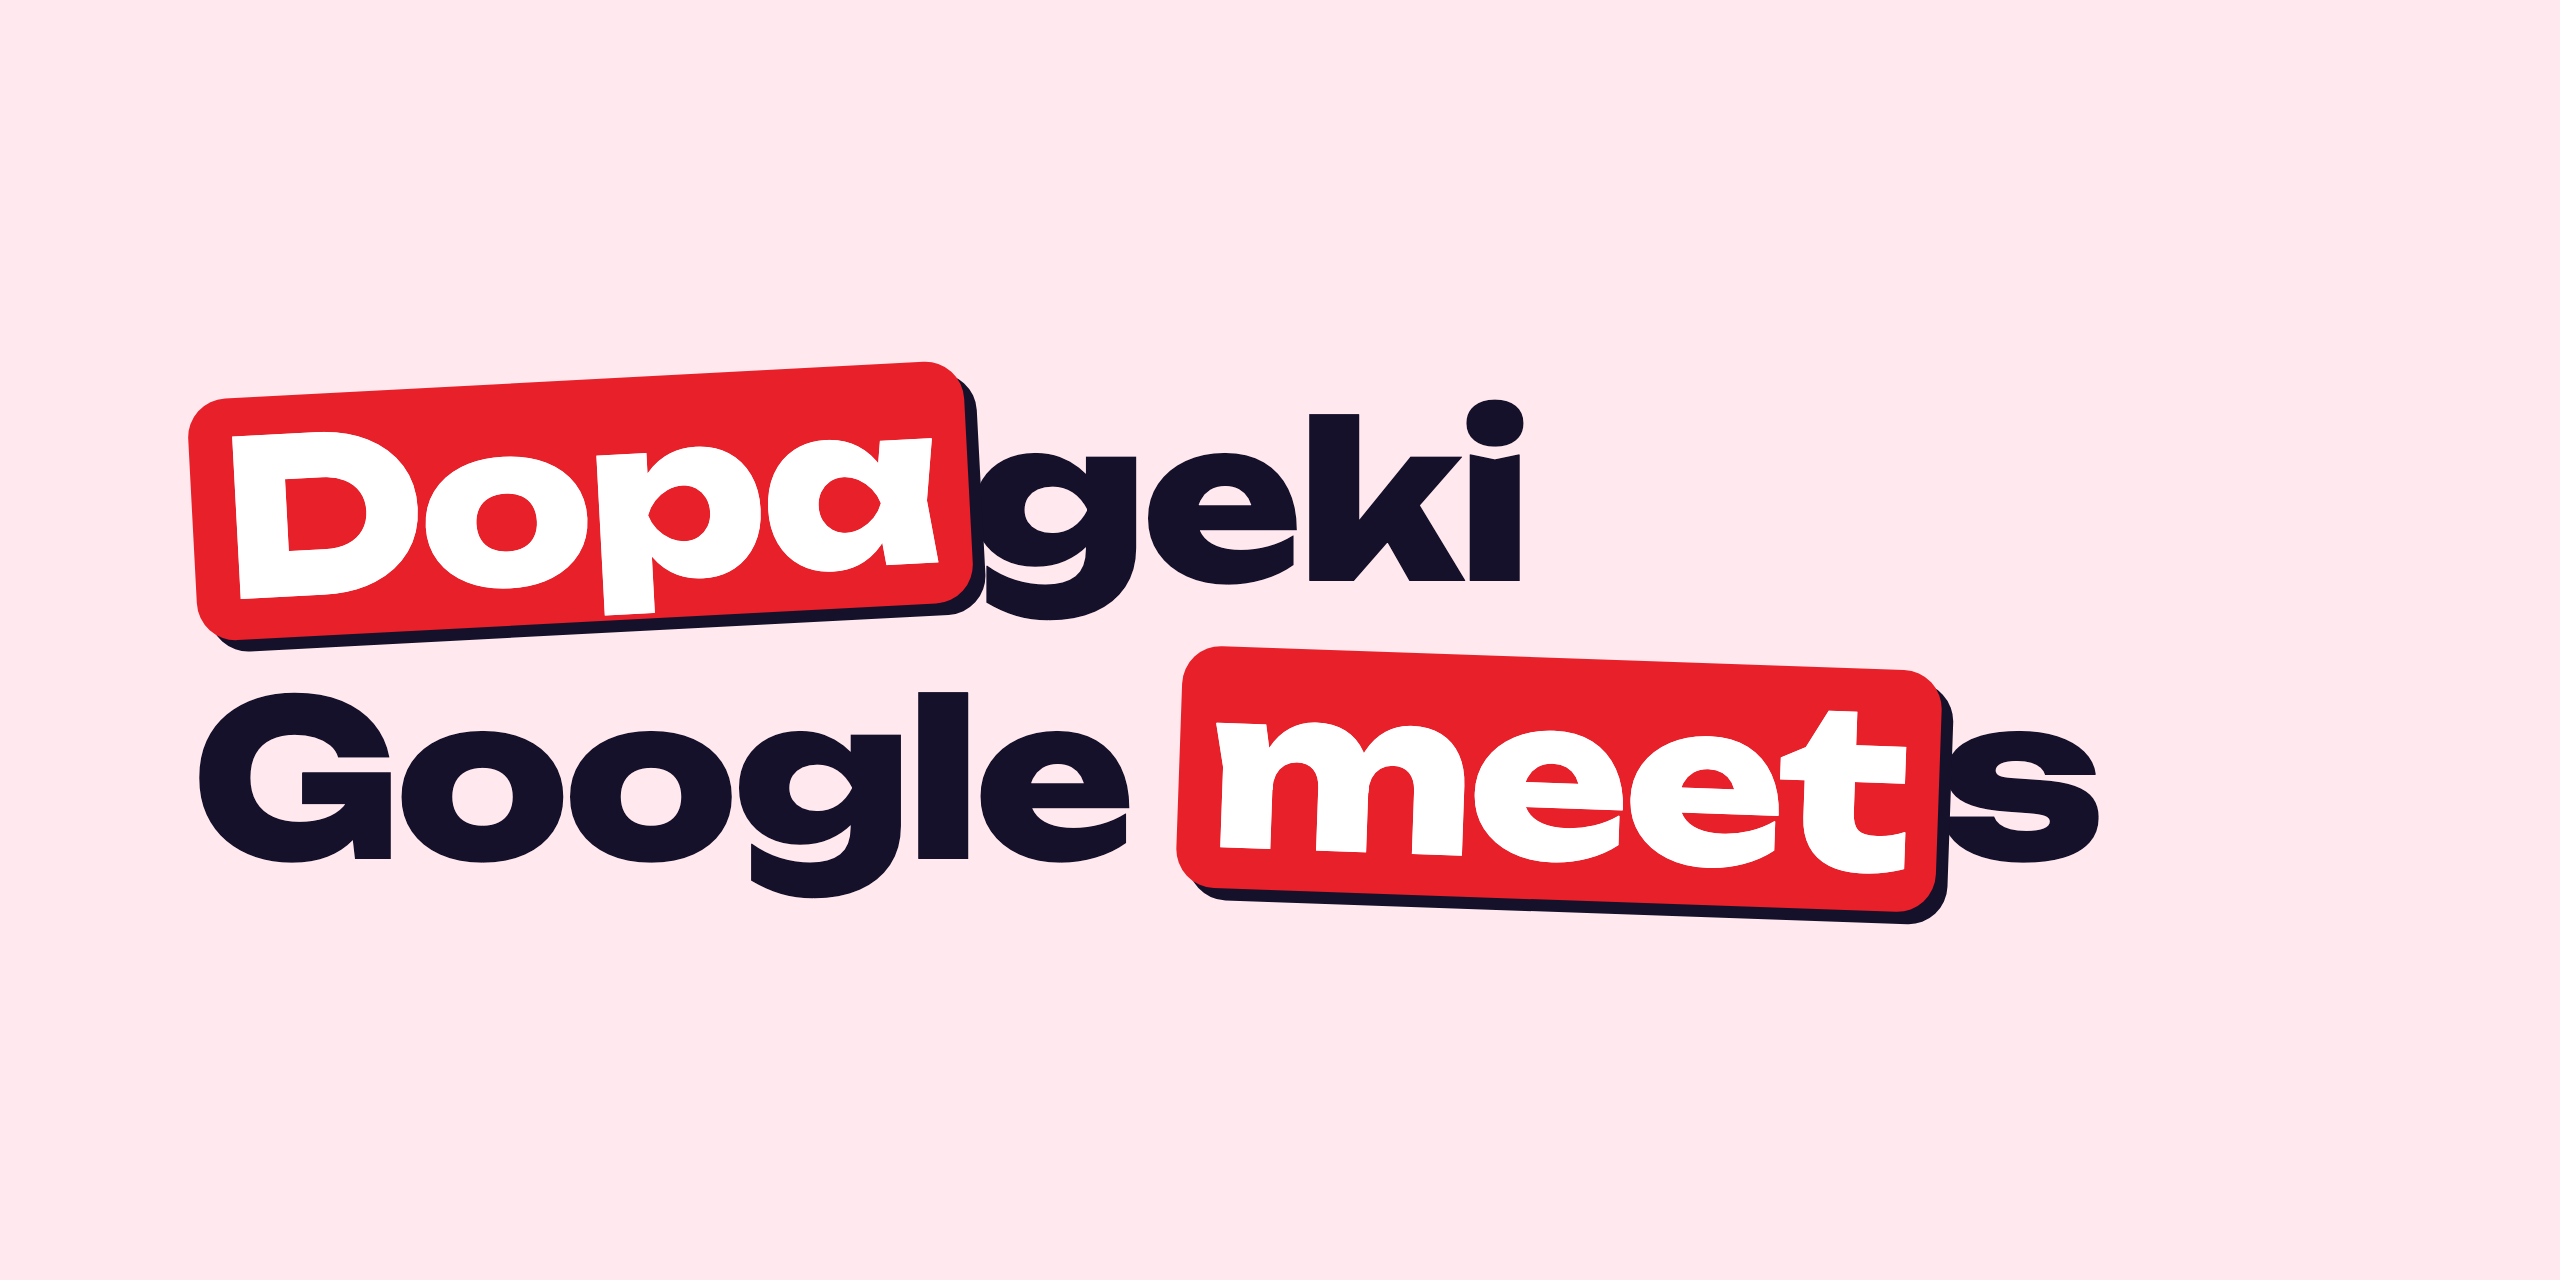
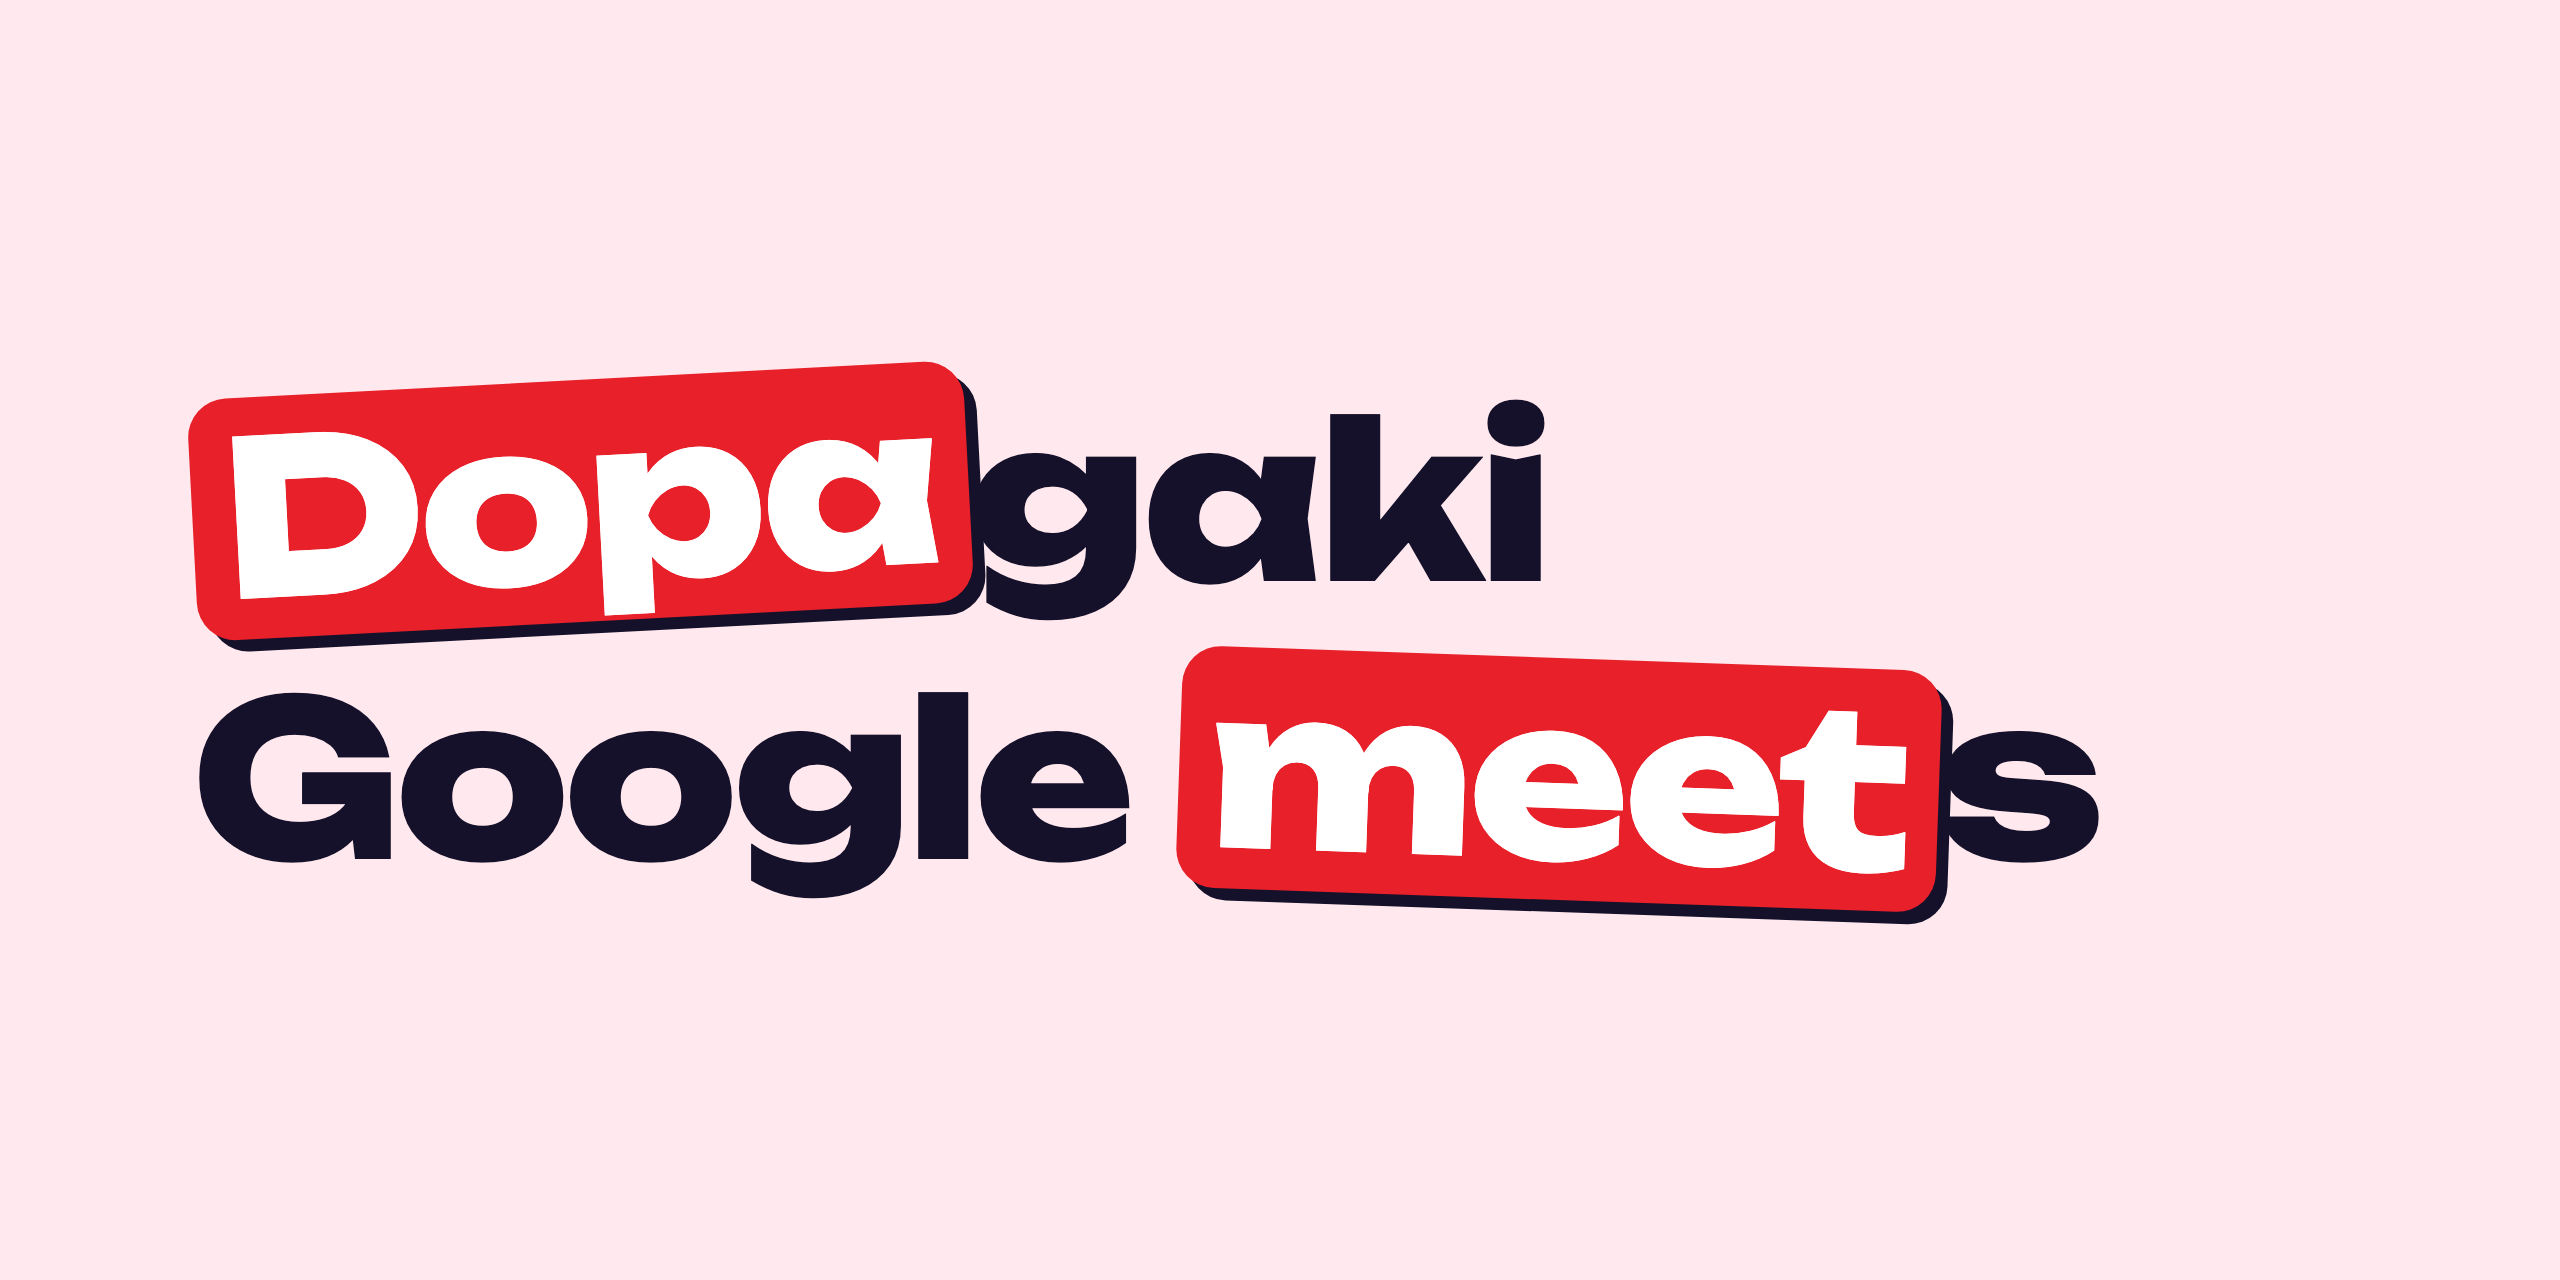
Fix the hero image text to Dopagaki

Changed region(s): [[0.4688, 0.3125, 0.625, 0.4688]]

diff --git a/assets/hero.html b/assets/hero.html
@@ -11,7 +11,7 @@ body { margin: 0; }
 </head>
 <body>
 <div class="hero">
-<div><span class="sticker" style="transform: rotate(-3deg)">Dopa</span>geki</div>
+<div><span class="sticker" style="transform: rotate(-3deg)">Dopa</span>gaki</div>
 <div>Google <span class="sticker" style="transform: rotate(2deg)">meet</span>s</div>
 </div>
 </body>
